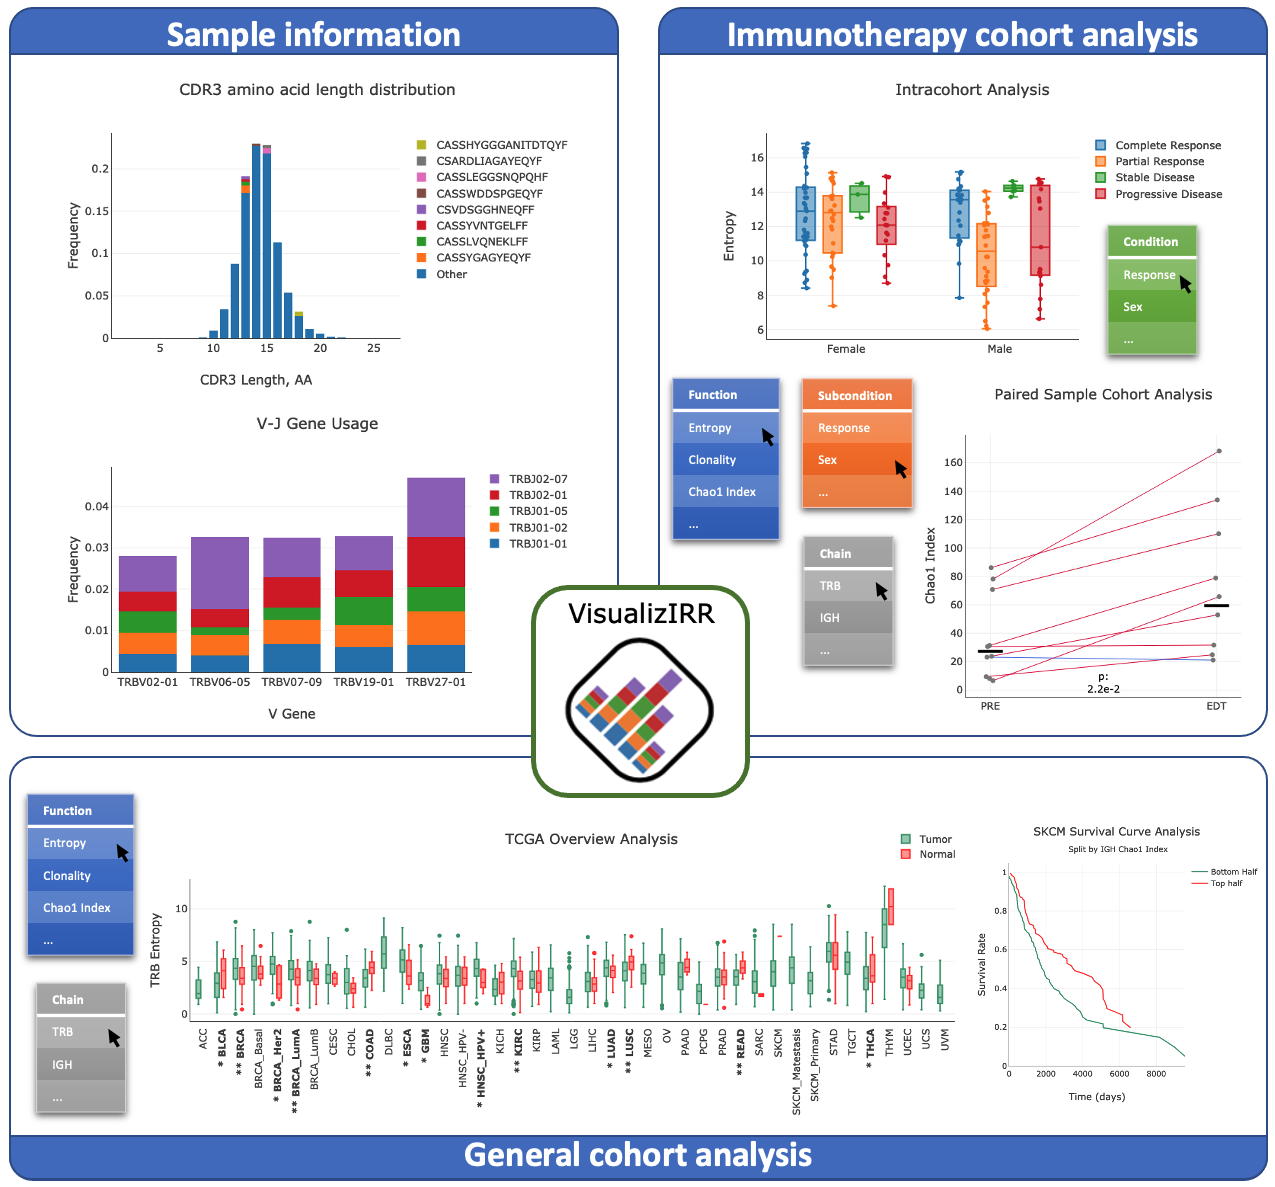
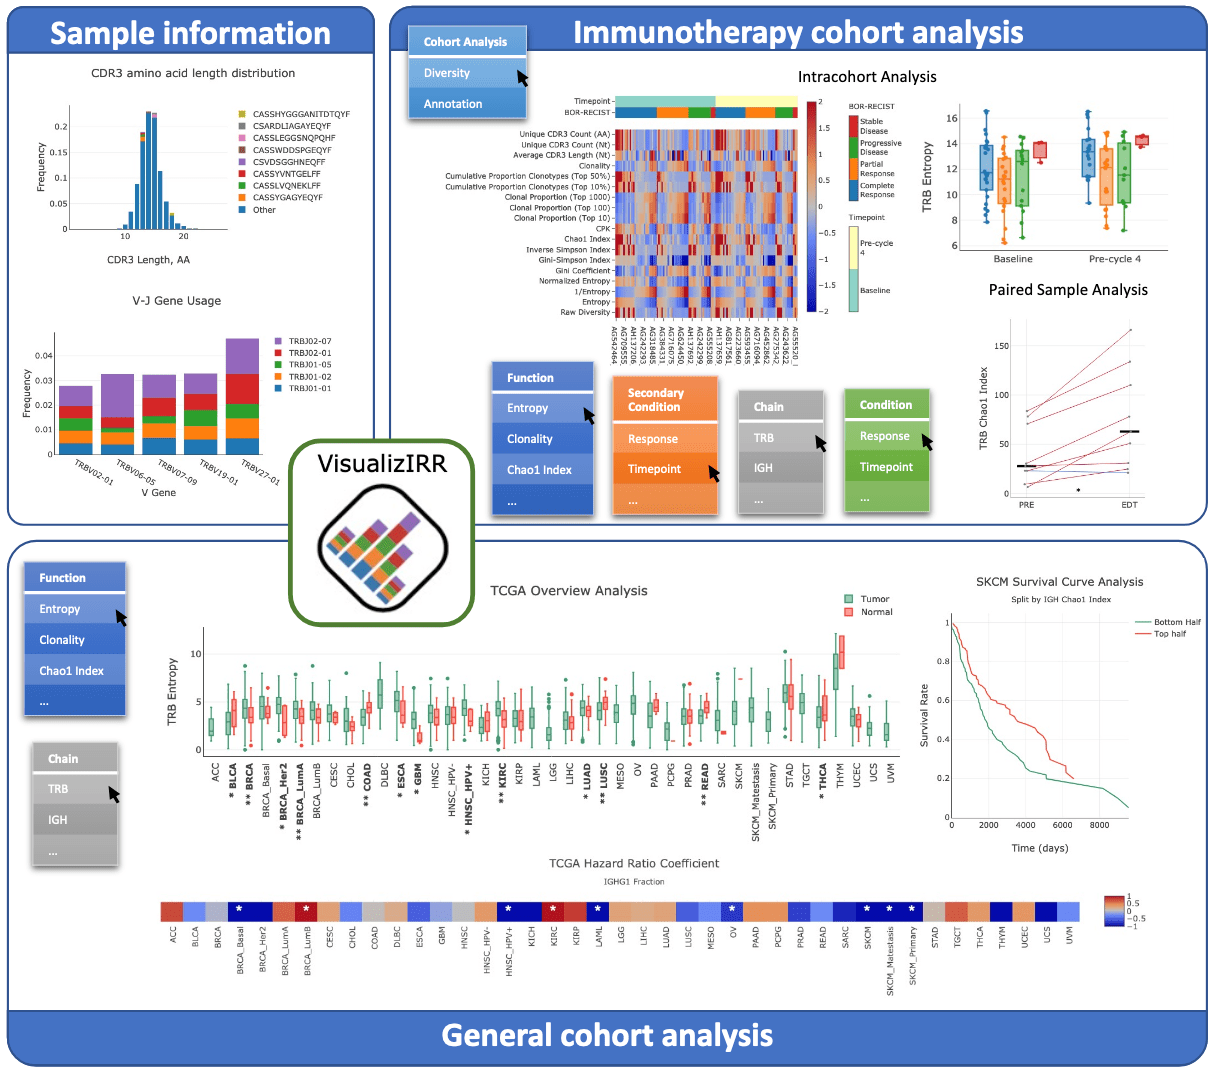
sample ordering in heatmap, doc updates, figure update

diff --git a/js/plot.js b/js/plot.js
@@ -710,31 +710,35 @@ function condition_2nd(cond_2nd_idx) {
   }
 
   for (let i = 0; i < curr_sample.length; i++) {
-    for (let j = 0; j < curr_sample[i].length; j++) {
-      var sample = curr_sample[i][j];
-      // Loop through secondary condition groups
-      for (let k = 0; k < curr_group_2nd.length; k++) {
-        if (typeof ica_meta_ordered[curr_cond_2nd][curr_group_2nd[k]] !== 'undefined'){
-        // If primary condition group includes sample...
-        if (ica_meta_ordered[curr_cond_2nd][curr_group_2nd[k]][curr_chain].includes(sample)) {
-          // Push corresponding x (secondary condition grouping) and y (primary condition value)
-         // if (typeof ica_data[curr_cond][curr_group[i]][curr_chain] !== 'undefined'){
-          condition_2nd_x[i].push(k);
-          curr_y[i].push(ica_data[curr_cond][curr_group[i]][curr_chain][curr_func][j]);
-          // Prepare heatmap
-          for (let l = 0; l < func_name.length; l++) {
-            z_vals_2nd[l][k][i].push(ica_data[curr_cond][curr_group[i]][curr_chain][func_name[l]][j]);
+    if (typeof curr_sample[i] !== 'undefined') {
+      for (let j = 0; j < curr_sample[i].length; j++) {
+        var sample = curr_sample[i][j];
+        // Loop through secondary condition groups
+        for (let k = 0; k < curr_group_2nd.length; k++) {
+          if (typeof ica_meta_ordered[curr_cond_2nd][curr_group_2nd[k]] !== 'undefined') {
+            if (typeof ica_meta_ordered[curr_cond_2nd][curr_group_2nd[k]][curr_chain] !== 'undefined') {
+              // If primary condition group includes sample...
+              if (ica_meta_ordered[curr_cond_2nd][curr_group_2nd[k]][curr_chain].includes(sample)) {
+                // Push corresponding x (secondary condition grouping) and y (primary condition value)
+                // if (typeof ica_data[curr_cond][curr_group[i]][curr_chain] !== 'undefined'){
+                condition_2nd_x[i].push(k);
+                curr_y[i].push(ica_data[curr_cond][curr_group[i]][curr_chain][curr_func][j]);
+                // Prepare heatmap
+                for (let l = 0; l < func_name.length; l++) {
+                  z_vals_2nd[l][k][i].push(ica_data[curr_cond][curr_group[i]][curr_chain][func_name[l]][j]);
+                }
+                primary_cond_heatmap[k][i].push(i);
+                curr_sample_sub[k][i].push(sample);
+                secondary_cond_heatmap[k].push(k);
+                //if (curr_group.length == 2) {
+                pval_arrays[i][k] = pval_arrays[i][k] || [];
+                pval_arrays[i][k].push(ica_data[curr_cond][curr_group[i]][curr_chain][curr_func][j]);
+                //}
+              }
+              // }
+            }
           }
-          primary_cond_heatmap[k][i].push(i);
-          curr_sample_sub[k][i].push(sample);
-          secondary_cond_heatmap[k].push(k);
-          //if (curr_group.length == 2) {
-          pval_arrays[i][k] = pval_arrays[i][k] || [];
-          pval_arrays[i][k].push(ica_data[curr_cond][curr_group[i]][curr_chain][curr_func][j]);
-          //}
         }
-       // }
-      }
       }
     }
   }
@@ -792,14 +796,16 @@ function condition_2nd(cond_2nd_idx) {
   k_count = 0;
   // Populate available traces
   for (let k = 0; k < condition_2nd_x.length; k++) {
-    //if (condition_2nd_x[k].length > 0) {
-    var update = {
-      x: [condition_2nd_x[k]],
-      y: [curr_y[k]]
+    if (condition_2nd_x[k].length > 0) {
+      //if (condition_2nd_x[k].length > 0) {
+      var update = {
+        x: [condition_2nd_x[k]],
+        y: [curr_y[k]]
+      }
+      Plotly.restyle('intracohortDiv', update, k_count);
+      k_count = k_count + 1;
+      //}
     }
-    Plotly.restyle('intracohortDiv', update, k_count);
-    k_count = k_count + 1;
-    //}
   }
   // Delete extra remaining traces
   for (let k = k_count; k < intracohortDiv.data.length; k++) {
@@ -1116,27 +1122,34 @@ function draw_heatmap() {
 
   for (let k = 0; k < curr_group.length; k++) {
     // Populate trace data (Just primary condition data
-    for (let l = 0; l < func_name.length; l++) {
 
-      if (window.ica_data[curr_cond][curr_group[k]][curr_chain]!==undefined){
-        z_vals[l] = [].concat(z_vals[l],ica_data[curr_cond][curr_group[k]][curr_chain][func_name[l]])
+    if (typeof ica_data[curr_cond][curr_group[k]][curr_chain] !== 'undefined') {
+
+      let indices = [...ica_data[curr_cond][curr_group[k]][curr_chain][curr_func].keys()].sort((a, b) => ica_data[curr_cond][curr_group[k]][curr_chain][curr_func][b] - ica_data[curr_cond][curr_group[k]][curr_chain][curr_func][a]);
+
+      for (let l = 0; l < func_name.length; l++) {
+
+        if (window.ica_data[curr_cond][curr_group[k]][curr_chain] !== undefined) {
+
+          z_vals[l] = [].concat(z_vals[l], [ica_data[curr_cond][curr_group[k]][curr_chain][func_name[l]]].map(a => indices.map(i => a[i]))[0])
+        }
+        // Peform normalization
+        if (k == curr_group.length - 1) {
+          zval_clone = [...z_vals[l]].map(parseFloat);
+          zval_med = q50(zval_clone)
+          zval_iqr = q75(zval_clone) - q25(zval_clone)
+          z_vals[l] = z_vals[l].map(normalize(zval_med, zval_iqr))
+          z_vals[l] = z_vals[l].map(value => isNaN(value) ? 0 : value);
+          // z_vals[l] = z_vals[l].map(normalize(Math.min(...z_vals[l]), Math.max(...z_vals[l])))
+        }
       }
-      // Peform normalization
-      if (k == curr_group.length-1){
-        zval_clone = [...z_vals[l]].map(parseFloat);
-        zval_med = q50(zval_clone)
-        zval_iqr = q75(zval_clone)-q25(zval_clone)
-        z_vals[l] = z_vals[l].map(normalize(zval_med,zval_iqr))
-        z_vals[l] = z_vals[l].map(value => isNaN(value) ? 0 : value);
-       // z_vals[l] = z_vals[l].map(normalize(Math.min(...z_vals[l]), Math.max(...z_vals[l])))
+      // populate condition and name arrays
+      if (window.ica_data[curr_cond][curr_group[k]][curr_chain] !== undefined) {
+        z_vals_cond = [].concat(z_vals_cond, Array(ica_data[curr_cond][curr_group[k]][curr_chain][curr_func].length).fill(k))
+        x_vals_name = [].concat(x_vals_name, [ica_meta_ordered[curr_cond][curr_group[k]][curr_chain]].map(a => indices.map(i => a[i]))[0])
       }
     }
-    // populate condition and name arrays
-    if (window.ica_data[curr_cond][curr_group[k]][curr_chain]!==undefined){
-      z_vals_cond = [].concat(z_vals_cond,Array(ica_data[curr_cond][curr_group[k]][curr_chain][curr_func].length).fill(k))
-      x_vals_name = [].concat(x_vals_name,ica_meta_ordered[curr_cond][curr_group[k]][curr_chain])
-    }
-  }
+}
   // clean colorbar text
   curr_group_mod = Array.from(Array(curr_group.length), () => []);;
   for(var i=0; i<curr_group.length; ++i){
@@ -1205,6 +1218,21 @@ function draw_heatmap_2nd() {
     // tick position
    tick_pos_2nd.push((curr_group_2nd.length-1)*(((k/(curr_group_2nd.length))+((k+1)/(curr_group_2nd.length)))/2))
 }
+
+
+for (let i = 0; i < z_vals_2nd[func_name.indexOf(curr_func)].length; i++) {
+  for (let j = 0; j < z_vals_2nd[func_name.indexOf(curr_func)][i].length; j++) {
+    let indices = [...z_vals_2nd[func_name.indexOf(curr_func)][i][j].keys()].sort((a, b) => 
+    z_vals_2nd[func_name.indexOf(curr_func)][i][j][b] - 
+    z_vals_2nd[func_name.indexOf(curr_func)][i][j][a]);
+
+    for (let k = 0; k < func_name.length; k++) {
+      z_vals_2nd[k][i][j] = [z_vals_2nd[k][i][j]].map(a => indices.map(i => a[i]))[0];
+    }
+    curr_sample_sub[i][j] = [curr_sample_sub[i][j]].map(a => indices.map(i => a[i]))[0];
+  }
+}
+
 
 // Populate trace data (secondary condition data)
   for (let l = 0; l < func_name.length; l++) {
@@ -1560,6 +1588,21 @@ function draw_paired_heatmap() {
     }
       
   }
+
+  for (let i = 0; i < z_vals_pair[func_name.indexOf(curr_func_psca)].length; i++) {
+    for (let j = 0; j < z_vals_pair[func_name.indexOf(curr_func_psca)][i].length; j++) {
+      let indices = [...z_vals_pair[func_name.indexOf(curr_func_psca)][i][j].keys()].sort((a, b) => 
+      z_vals_pair[func_name.indexOf(curr_func_psca)][i][j][b] - 
+      z_vals_pair[func_name.indexOf(curr_func_psca)][i][j][a]);
+  
+      for (let k = 0; k < func_name.length; k++) {
+        z_vals_pair[k][i][j] = [z_vals_pair[k][i][j]].map(a => indices.map(i => a[i]))[0];
+      }
+      xlab_pair[i][j] = [xlab_pair[i][j]].map(a => indices.map(i => a[i]))[0];
+    }
+  }
+  
+
   
 // paired sample heatmap
 

diff --git a/html/top_navbar.html b/html/top_navbar.html
@@ -61,7 +61,7 @@
 							</button>
 							<div class="dropdown-menu active pre-scrollable">
 								<a class="dropdown-item" href="cohort_analysis.html">Diversity</a>
-								<a class="dropdown-item" href="cohort_analysis.html?data=db">Database</a>
+								<a class="dropdown-item" href="cohort_analysis.html?data=db">Annotation</a>
 							</div>
 						</div>
 

diff --git a/README.md b/README.md
@@ -1,6 +1,6 @@
 ## **V**isualiz**IRR** (**V**isualized **I**mmune **R**epertoire **R**eport)
 
-### v0.4.0
+### v0.4.1
 
 An in-browser immune repertoire report, incorporating popular web development libraries, including jQuery, Bootstrap, and plotly.js, in order to make immune repertoire analysis results simple to navigate and understand for the end user on their local machine or on a server.
 These reports are structured to dynamically display the results of whatever cohort you run TCR/BCR analysis on.
@@ -28,6 +28,8 @@ Support is included for TRUST4, MiXCR, VDJtools, Adaptive, and custom clonesets.
     * Comparison between sub-cohort groups
 * Everything is split between different available chains 
     * TRB, TRA, TRG, TRD, IGH (+ Isotypes), IGL, IGK
+
+For more details on the contents of the generated report, check the **home&#46;md** file which is displayed on the report homepage and contains more in-depth information on different sections.
 
 ---
 
@@ -86,20 +88,38 @@ Support is included for TRUST4, MiXCR, Adaptive, and custom clonesets.
 
 ---
 
-**meta.csv** should be a csv with the first column including sample names and remaining columns for different conditions. 
-There are a few ways to enter your meta information, but in order to have ordered sample condition groups is to use a numeric range and denote 
+**meta.csv** should be a csv with the first column including sample names (named "sample") and remaining columns for different conditions. 
+Sample names must correspond to the names of the input repertoire files with prefix and/or suffix stripped according to the input_prefix and input_suffix values defined in config.R. 
+This can be further checked by comparing these to the sample names in the intracohort_data.csv file generated for the report.
+There are a few ways to enter your meta information, but in order to have ordered sample condition groups one can use a numeric range and denote 
 the categorical label of those groups in the header using '|' as the seperator (as demonstrated in condition 0 and 2). 
+In Condition 0, Group 0 = 0 and Group 1 = 1.
 You can also use the labels in the metasheet and not denote them in the header (as demonstrated in condition 1 and 3).
 Meta-data should be converted to categorical bins if it isn't categorical already.
-In order to set up paired samples analysis, a column must be named 'VisGroup' and contain patient ID. It coincides with the column 'Timepoint'. 
-Therefore, patient samples from different timepoints can be paired.
 
-meta.csv template:
+meta.csv template 1:
 ```
 sample,Condition 0|Group 0|Group 1,Condition 1,Condition 2|Group 0|Group 1|Group 2,Condition 3
 SampleName0,1,A,0,Aa
 SampleName1,0,A,2,Bb
 SampleName2,1,B,1,Cc
+```
+
+In order to set up paired samples analysis, a column must be named 'VisGroup' and contain patient ID. 
+It coincides with the column 'Timepoint'. 
+Therefore, patient samples from different timepoints can be paired.
+The VisGroup column contains patient IDs and the Timepoint column contains different timepoints. 
+These can be utilized together to conduct paired sample analysis. 
+Below we see two samples with the VisGroup value Patient1. 
+They have two different timepoints (0 and 1) and therefore will be paired accordingly.
+
+meta.csv template 2:
+```
+sample,Condition 0|Group 0|Group 1,Timepoint|Pre|Post,VisGroup
+SampleName0,0,0,Patient1
+SampleName1,0,1,Patient1
+SampleName2,1,0,Patient2
+SampleName3,1,1,Patient2
 ```
 
 ---

diff --git a/home.md b/home.md
@@ -13,9 +13,10 @@ VisualizIRR collects immune repertoire data from immunotherapy cohorts of differ
 Cohort Selection is available on the home page. 
 From there, the user can use the top navigation bar to view segment usage and CDR3 distribution information on either the cohort level or the individual sample level, depending on what they select from the drop-down menu. 
 
-Cohort analysis is available in which users can compare the distributions of immune repertoire features of samples among differing groups within the cohort. 
+Cohort analysis is available in which users can compare the distributions of immune repertoire features of samples among differing groups and subgroups within the cohort. 
 This includes an intracohort anlaysis module which produces Wilcoxon rank-sum test p-values. An associated heatmap is available with all measures and utilizes IQR based normalization.
 This also includes a paired sample cohort analysis which produces Wilcoxon signed-rank test p-values. An associated heatmap is available with all measures and utilizes log2 fold change between timepoints.
+Heatmap samples are organized based on user-selected groupings and subgroupings. Samples are further sorted by the values of the metric selected.
 There is also a table of the values and a scatterplot for comparing different measures.
 Cohort statistics data and available meta-information are available on the cohort analysis page in tables and are downloadable.
 The cohort can be subsetted by the user based on metadata and/or individual sample seleciton.
@@ -75,9 +76,9 @@ The data for all figures is split into different available chains. All figures p
 * Unique CDR3 Count (Nt)
 * Unique CDR3 Count (AA)
 
-**Cohort Analysis - Database**
+**Cohort Analysis - Annotation**
 
-Database analysis utilizes TCR sequences associated with a target antigen or related to a specific pathology. 
+Annotation analysis utilizes TCR sequences associated with a target antigen or related to a specific pathology. 
 They are sourced from VDJdb and McPAS-TCR which contain sequences curated from existing literature. 
 Overlapping hits are weighted by the frequency of abundance of these CDR3s in the immune repertoire of the samples.
 Top antigen/pathology-specific overlaps are reported. 
